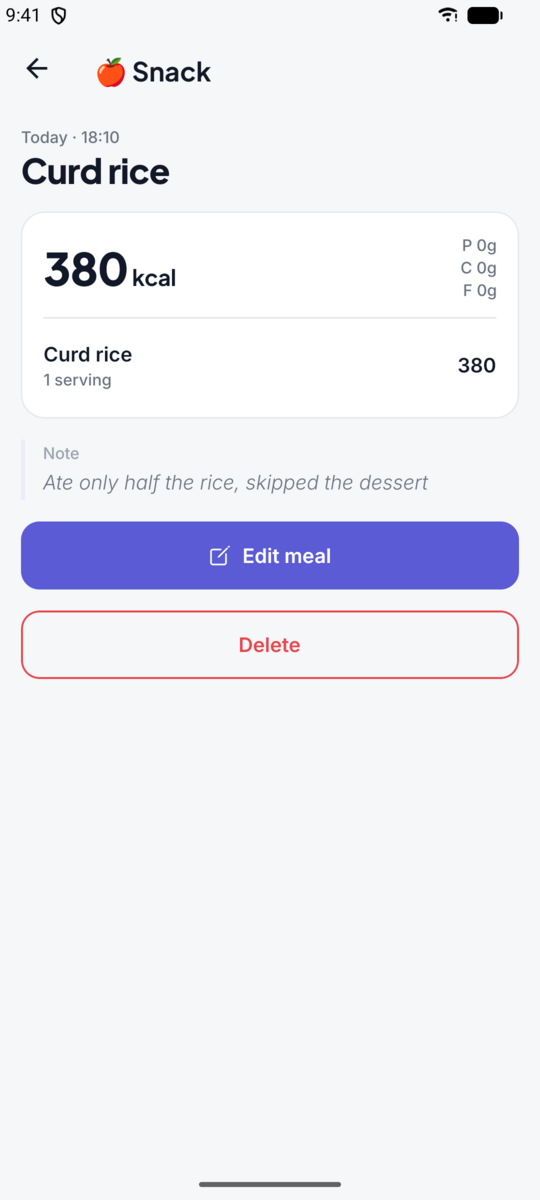
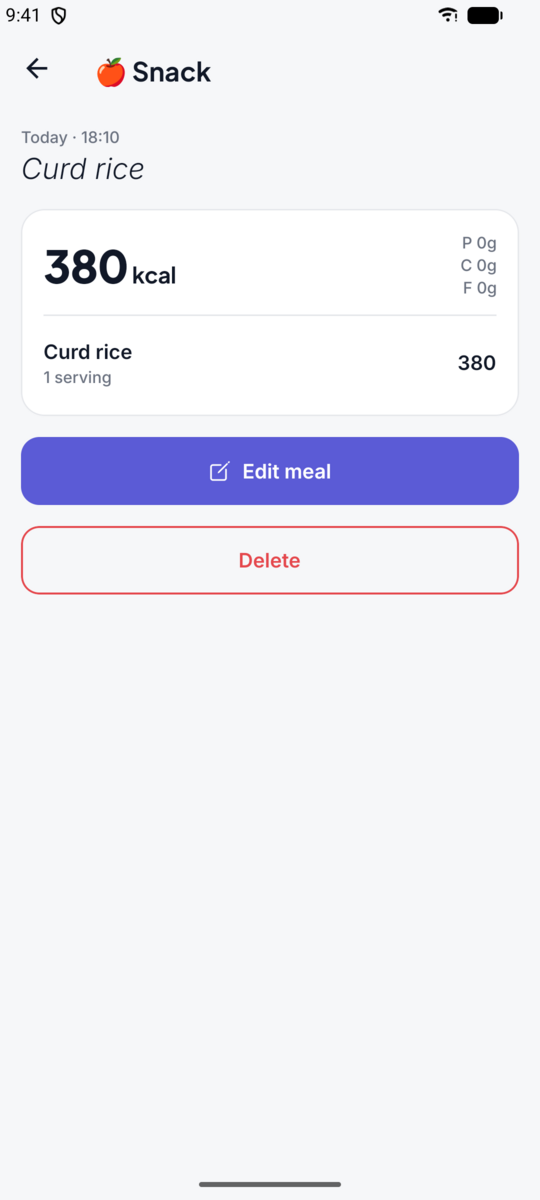
changed the descrition style

diff --git a/src/app/meal/[id].tsx b/src/app/meal/[id].tsx
@@ -87,7 +87,9 @@ export default function MealDetail() {
         <Txt variant="caption">
           {formatDayLabel(meal.date)} · {formatTime(eaten)}
         </Txt>
-        <Txt variant="title">{meal.dishSummary || 'Meal'}</Txt>
+        <Txt variant="quote" style={{ fontSize: 22, lineHeight: 30, color: c.text }}>
+          {meal.dishSummary || 'Meal'}
+        </Txt>
       </View>
 
       <Card style={{ gap: 4 }}>
@@ -119,15 +121,6 @@ export default function MealDetail() {
           );
         })}
       </Card>
-
-      {meal.note ? (
-        <View style={{ borderLeftWidth: 3, borderLeftColor: c.primarySoft, paddingLeft: 14, paddingVertical: 2, gap: 2 }}>
-          <Txt variant="caption" faint>
-            Note
-          </Txt>
-          <Txt variant="quote">{meal.note}</Txt>
-        </View>
-      ) : null}
 
       {meal.recommendation ? <RecommendationCard rec={meal.recommendation} /> : null}
 

diff --git a/README.md b/README.md
@@ -45,7 +45,7 @@ Meet **Mon**, the little monster whose face follows your day: sleepy before you 
 
 ### Your day
 
-The ring shows the calories left today and shifts from red to green as you get closer to your target, with bars for protein, carbs, and fat. Each meal fills its own tile. Tap a meal to see the full breakdown; notes you added show as a quiet italic quote.
+The ring shows the calories left today and shifts from red to green as you get closer to your target, with bars for protein, carbs, and fat. Each meal fills its own tile. Tap a meal to see the full breakdown, with the meal's description (from Gemini, the chat app, or what you typed) in thin italics under the photo.
 
 <table>
   <tr>
